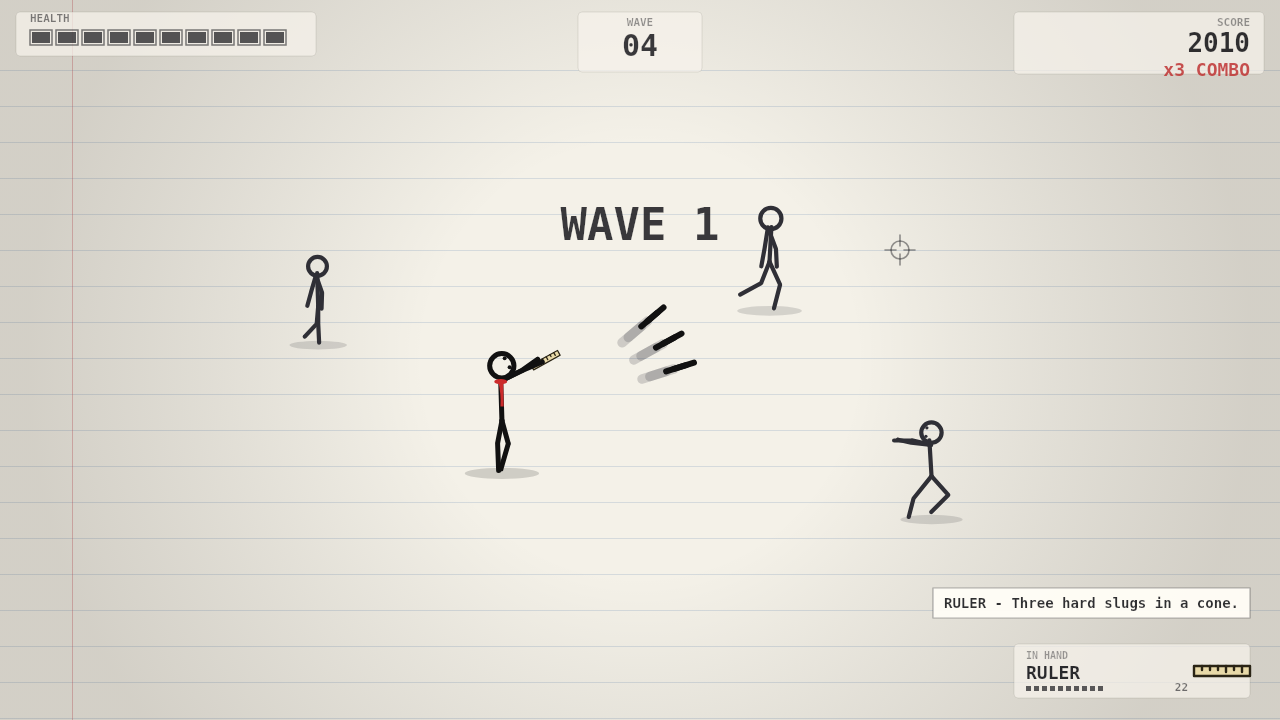
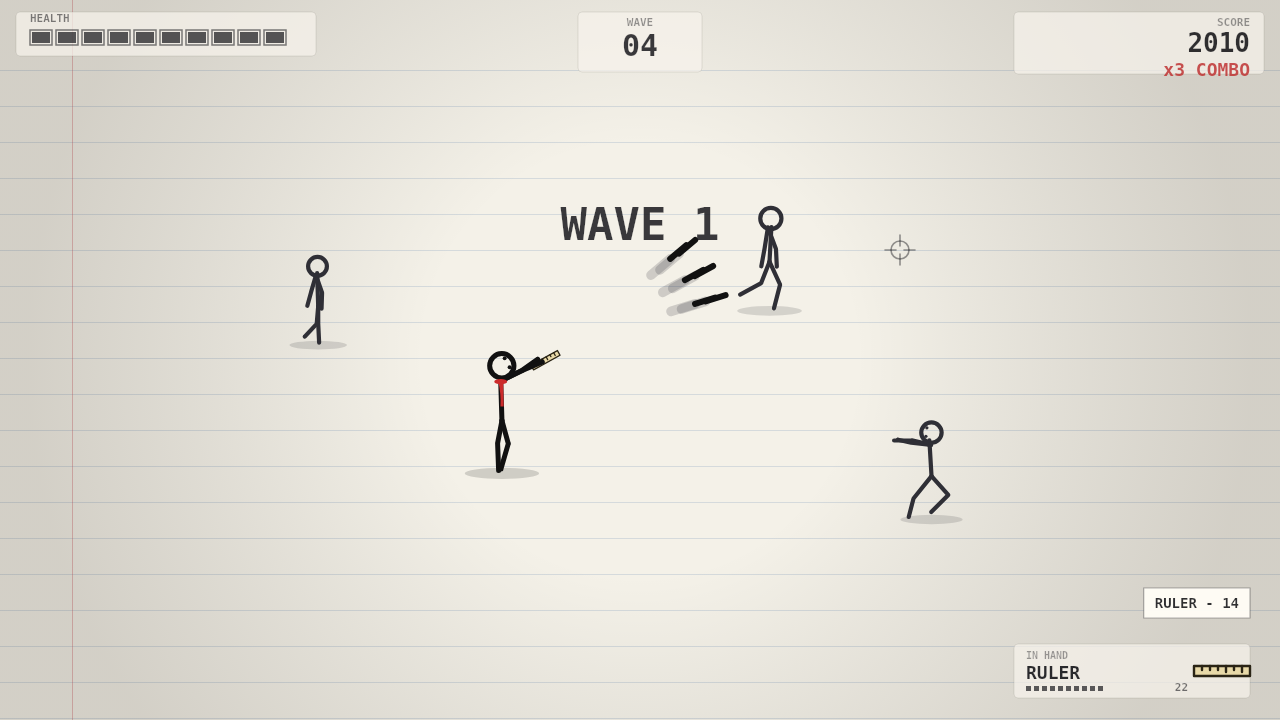
STICKMAN: fire from the weapon's muzzle, not from the body
Bullets used to spawn at a hardcoded point near the player's centre, so the
shot appeared to come out of the stickman's chest while the tool sat somewhere
in his hand.

- playerPose() is now the single pose the figure is drawn in, and muzzlePoint()
  reads the aiming hand out of that pose and pushes out by the weapon's own
  reach. fire() spawns the bullet exactly there, so the flash, the barrel and
  the bullet are one point in space.
- drawHeldWeapon anchors the art by its tip instead of its middle, so the
  drawn tool ends precisely where the bullets start (each weapon carries a
  'tip' length for this).
- The thrower enemy also throws from its hand now, not from its chest.

Tests: 63 checks, 6 new ones pinning the muzzle geometry.

Changed region(s): [[0.7188, 0.7944, 0.9688, 0.8556], [0.4688, 0.3361, 0.5625, 0.55]]

diff --git a/stickman/js/game.js b/stickman/js/game.js
@@ -60,27 +60,27 @@ var Game = {
     pen: {
       name: 'PEN', tip: 'One clean line. Never runs out.',
       shots: 1, spread: 0, rate: 0.135, dmg: 11, speed: 980, life: 1.1,
-      r: 3, len: 13, pierce: 0, ammo: Infinity, kick: 26, drop: 0
+      r: 3, len: 13, pierce: 0, ammo: Infinity, kick: 26, drop: 0, reach: 13, tip: 11
     },
     ruler: {
       name: 'RULER', tip: 'Three hard slugs in a cone.',
       shots: 3, spread: 0.20, rate: 0.40, dmg: 16, speed: 820, life: 0.46,
-      r: 6, len: 21, pierce: 0, ammo: 24, kick: 130, drop: 0.5
+      r: 6, len: 21, pierce: 0, ammo: 24, kick: 130, drop: 0.5, reach: 20, tip: 14
     },
     compass: {
       name: 'COMPASS', tip: 'A needle that goes through everything.',
       shots: 1, spread: 0, rate: 0.34, dmg: 24, speed: 1500, life: 1.0,
-      r: 2.5, len: 26, pierce: 3, ammo: 12, kick: 90, drop: 0.65
+      r: 2.5, len: 26, pierce: 3, ammo: 12, kick: 90, drop: 0.65, reach: 13, tip: 11
     },
     stapler: {
       name: 'STAPLER', tip: 'Fast, mean, and very short range.',
       shots: 1, spread: 0.10, rate: 0.065, dmg: 5, speed: 1250, life: 0.42,
-      r: 2, len: 8, pierce: 0, ammo: 80, kick: 12, drop: 0.9
+      r: 2, len: 8, pierce: 0, ammo: 80, kick: 12, drop: 0.9, reach: 10, tip: 10
     },
     eraser: {
       name: 'ERASER', tip: 'Slow and heavy. It ricochets off the margin.',
       shots: 1, spread: 0, rate: 0.60, dmg: 42, speed: 640, life: 1.6,
-      r: 11, len: 0, pierce: 0, ammo: 8, kick: 240, bounce: 2, drop: 0.4
+      r: 11, len: 0, pierce: 0, ammo: 8, kick: 240, bounce: 2, drop: 0.4, reach: 10, tip: 9
     }
   },
   WEAPON_IDS: ['ruler', 'compass', 'stapler', 'eraser'],
@@ -408,13 +408,14 @@ var Game = {
     /* six arms triples the shots; the spread stays in the weapon's hands */
     var volley = w.shots * (this.powers.arms ? 3 : 1);
     var spread = w.spread;
-    var muzzleX = p.x + Math.cos(p.aim) * 26;
-    var muzzleY = p.y - p.size * 0.30 + Math.sin(p.aim) * 26;
+    /* the bullet leaves the end of the weapon, read off the very pose the
+     * figure is drawn in this frame */
+    var muzzle = this.muzzlePoint();
 
     for (var i = 0; i < volley; i++) {
       var a = p.aim + (volley === 1 ? 0 : (i - (volley - 1) / 2) * spread);
       this.bullets.push({
-        x: muzzleX, y: muzzleY,
+        x: muzzle.x, y: muzzle.y,
         vx: Math.cos(a) * w.speed, vy: Math.sin(a) * w.speed,
         life: w.life, dmg: w.dmg, r: w.r, a: a,
         w: p.weapon, len: w.len,
@@ -536,8 +537,17 @@ var Game = {
         if (e.throwCd <= 0 && d < 520) {
           e.throwCd = 2.2;
           var ba = angleTo(e.x, e.y - e.size * 0.3, p.x, p.y);
+          /* the thrown stone also leaves the thrower's hand, not its chest */
+          var ePose = Rig.pose({
+            x: e.x, y: e.y, size: e.size, phase: e.phase, gait: e.gait || 0,
+            t: this.t, seed: e.seed, aim: ba
+          });
+          var eHand = ePose.armPairs[0].right.hand;
+          var eScale = Math.max(0.4, e.size / 132);
+          var hx = eHand.x + Math.cos(ba) * 6 * eScale;
+          var hy = eHand.y + Math.sin(ba) * 6 * eScale;
           this.shots.push({
-            x: e.x + Math.cos(ba) * 14, y: e.y - e.size * 0.3 + Math.sin(ba) * 14,
+            x: hx, y: hy,
             vx: Math.cos(ba) * 300, vy: Math.sin(ba) * 300, life: 3, r: 7, dmg: 9
           });
           Sfx.hit();
@@ -1090,21 +1100,25 @@ var Game = {
   /* The weapon lives in the stickman's aiming hand, at the same angle as the
    * arm, so the muzzle and the bullets agree. */
   drawHeldWeapon: function (ctx, pose, id, aim) {
-    var hand = pose.armPairs[0].right.hand;
-    var scale = pose.size / 132;
-    var px = hand.x + Math.cos(aim) * 4 * scale;
-    var py = hand.y + Math.sin(aim) * 4 * scale;
-    this.drawTool(ctx, id, px, py, Math.max(0.55, scale * 1.15), aim);
+    var m = this.muzzlePoint(pose, id, aim);
+    var def = this.WEAPONS[id] || this.WEAPONS.pen;
+    var artScale = Math.max(0.55, m.scale * 1.15);
+    /* Anchor the art by its TIP, not by its middle: the weapon is drawn so
+     * that the point the bullets leave from is exactly the point the tool
+     * ends at. Otherwise the muzzle floats a few pixels off the barrel and
+     * the shot looks like it comes from nowhere. */
+    var tip = def.tip || 11;
+    var grip = { x: m.x - Math.cos(aim) * tip * artScale,
+                 y: m.y - Math.sin(aim) * tip * artScale };
+    this.drawTool(ctx, id, grip.x, grip.y, artScale, aim);
 
     /* muzzle puff, a couple of frames after a shot */
     if (this.player.muzzle > 0) {
       ctx.save();
       ctx.globalAlpha = clamp(this.player.muzzle * 10, 0, 1) * 0.8;
       ctx.fillStyle = 'rgba(30,30,34,0.75)';
-      var mx = px + Math.cos(aim) * (id === 'ruler' ? 22 : 16) * scale;
-      var my = py + Math.sin(aim) * (id === 'ruler' ? 22 : 16) * scale;
       ctx.beginPath();
-      ctx.arc(mx, my, (id === 'eraser' ? 9 : 4.5) * scale, 0, TAU);
+      ctx.arc(m.x, m.y, (id === 'eraser' ? 9 : 4.5) * artScale, 0, TAU);
       ctx.fill();
       ctx.restore();
     }
@@ -1140,10 +1154,12 @@ var Game = {
     }
   },
 
-  drawPlayer: function (ctx) {
+  /* The one pose the player is drawn in. Firing reads its muzzle out of this
+   * same pose, so the bullet always leaves the end of the weapon and never the
+   * middle of the body. */
+  playerPose: function () {
     var p = this.player;
-    if (!p) return;
-    var pose = Rig.pose({
+    return Rig.pose({
       x: p.x, y: p.y, size: p.size,
       phase: p.phase, gait: p.gait,
       t: this.t, seed: 7, aim: p.aim,
@@ -1152,6 +1168,31 @@ var Game = {
       crouch: p.dead ? 1 : (p.dashT > 0 ? 0.4 : 0),
       lean: clamp(p.vx / 900, -0.5, 0.5)
     });
+  },
+
+  /* Where the weapon ends: the aiming hand, pushed out by the tool's own
+   * length, scaled with the figure. */
+  muzzlePoint: function (pose, weaponId, aim) {
+    var p = this.player;
+    pose = pose || this.playerPose();
+    var id = weaponId || p.weapon;
+    aim = aim === undefined ? p.aim : aim;
+    var hand = pose.armPairs[0].right.hand;
+    var scale = Math.max(0.4, pose.size / 132);
+    var reach = (this.WEAPONS[id] || this.WEAPONS.pen).reach || 12;
+    var d = reach * scale;
+    return {
+      x: hand.x + Math.cos(aim) * d,
+      y: hand.y + Math.sin(aim) * d,
+      hand: hand,
+      scale: scale
+    };
+  },
+
+  drawPlayer: function (ctx) {
+    var p = this.player;
+    if (!p) return;
+    var pose = this.playerPose();
     if (p.dead) {
       ctx.save();
       ctx.globalAlpha = 0.75;

diff --git a/stickman/test/smoke.js b/stickman/test/smoke.js
@@ -500,6 +500,68 @@ Game.reset('playing'); Game.startRun();
 [Game.player.weapon, Game.pickups.length].join(',')
 `, v => v === 'pen,0');
 
+console.log('--- the shot leaves the gun ---');
+check('a bullet is born on the weapon, not in the body', `
+Game.reset('playing'); Game.startRun();
+Game.pending.length = 0; Game.enemies.length = 0;
+Game.player.x = 640; Game.player.y = 460;
+Game.player.aim = 0;
+Game.bullets.length = 0; Game.player.fireCd = 0;
+var m = Game.muzzlePoint();
+Game.fire();
+var b = Game.bullets[0];
+dist(b.x, b.y, m.x, m.y) < 0.001
+`, v => v === true);
+
+check('the muzzle is in front of the body, along the aim', `
+Game.reset('playing'); Game.startRun();
+Game.player.x = 640; Game.player.y = 460; Game.player.aim = 0;
+var m = Game.muzzlePoint();
+m.x > Game.player.x + 30
+`, v => v === true);
+
+check('the muzzle follows the aim direction', `
+Game.reset('playing'); Game.startRun();
+Game.player.x = 640; Game.player.y = 460;
+/* the muzzle lives at the shoulder, so compare the two aim directions with
+ * each other rather than with the feet */
+Game.player.aim = Math.PI / 2;   // aim down the page
+var down = Game.muzzlePoint().y;
+Game.player.aim = -Math.PI / 2;  // aim up the page
+var up = Game.muzzlePoint().y;
+down > up + 20
+`, v => v === true);
+
+check('the muzzle is not the same point for every weapon', `
+Game.reset('playing'); Game.startRun();
+Game.player.x = 640; Game.player.y = 460; Game.player.aim = 0;
+var pen = Game.muzzlePoint();
+Game.equipWeapon('ruler');
+var ruler = Game.muzzlePoint();
+Math.abs(ruler.x - pen.x) > 4
+`, v => v === true);
+
+check('the drawn tool ends where the bullets start', `
+Game.reset('playing'); Game.startRun();
+Game.player.x = 640; Game.player.y = 460; Game.player.aim = 0;
+var m = Game.muzzlePoint(Game.playerPose(), 'ruler', 0);
+var w = Game.WEAPONS.ruler;
+var tipX = m.x - Math.cos(0) * w.reach * m.scale + Math.cos(0) * w.reach * m.scale;
+Math.abs(tipX - m.x) < 0.001 && m.scale > 0
+`, v => v === true);
+
+check('a thrower throws from its hand, not its chest', `
+Game.reset('playing'); Game.startRun();
+Game.enemies.length = 0; Game.pending.length = 0; Game.shots.length = 0;
+var e = Game.spawnEnemy('thrower', Game.player.x + 200, Game.player.y);
+e.throwCd = 0;
+Game.updateEnemies(0.016);
+var shot = Game.shots[0];
+var ePose = Rig.pose({ x: e.x, y: e.y, size: e.size, phase: e.phase, gait: e.gait || 0, t: Game.t, seed: e.seed, aim: angleTo(e.x, e.y - e.size * 0.3, Game.player.x, Game.player.y) });
+var hand = ePose.armPairs[0].right.hand;
+dist(shot.x, shot.y, hand.x, hand.y) < 20 && dist(shot.x, shot.y, e.x, e.y - e.size * 0.3) > 20
+`, v => v === true);
+
 console.log('--- robustness ---');
 check('a huge frame delta is clamped, not simulated in one gulp', `
 Game.reset('playing'); Game.startRun();

diff --git a/stickman/tools/render.js b/stickman/tools/render.js
@@ -159,4 +159,29 @@ Game.player.deadT = 0.9;
 `);
 shot('05-game-over');
 
+/* -------------------------------------------------- muzzle close-up --- */
+run(`
+Game.reset('playing'); Game.startRun();
+Game.pending.length = 0; Game.enemies.length = 0;
+Game.equipWeapon('ruler');
+var p = Game.player; p.x = 520; p.y = 470; p.aim = -0.45;
+Game.toast = 0;
+Input.mouse.x = 900; Input.mouse.y = 300;
+p.fireCd = 0; Game.fire();
+for (var i = 0; i < 2; i++) Game.update(1 / 60);
+`);
+shot('08-muzzle-line');
+
+run(`
+Game.reset('playing'); Game.startRun();
+Game.pending.length = 0; Game.enemies.length = 0;
+Game.equipWeapon('eraser');
+var p = Game.player; p.x = 520; p.y = 470; p.aim = -0.45;
+Game.toast = 0;
+Input.mouse.x = 900; Input.mouse.y = 300;
+p.fireCd = 0; Game.fire();
+for (var i = 0; i < 3; i++) Game.update(1 / 60);
+`);
+shot('09-muzzle-eraser');
+
 console.log('\nframes in', OUT);

diff --git a/stickman/README.md b/stickman/README.md
@@ -54,6 +54,11 @@ found on the page, dropped by whatever just died. Each weapon is a different
 | **Stapler** | a fast, short-range hose of staples | 80 |
 | **Eraser** | a wrecking ball that ricochets off the margin twice | 8 |
 
+Shots are born at the **tip of the tool**, not at the character's chest: the fire
+code reads the same pose the figure is drawn in that frame, walks out to the end
+of the barrel and spawns the bullet there, so the muzzle flash, the weapon and
+the bullet are always the same point in space.
+
 Walk over a dropped tool to take it. The clip counts down in the bottom-right
 panel, each tool has its own shot sound and its own bullet art, and when a clip
 empties you are handed back the pen rather than left defenceless.
@@ -72,7 +77,7 @@ empties you are handed back the pen rather than left defenceless.
 ## Tests
 
 ```bash
-node test/smoke.js        # 57 checks: rig, combat, weapons, powers, 2 minutes of play
+node test/smoke.js        # 63 checks: rig, combat, weapons, muzzle, powers, 2 minutes
 node tools/render.js      # writes real frames to /tmp/stickman for eyeballing
 ```
 
